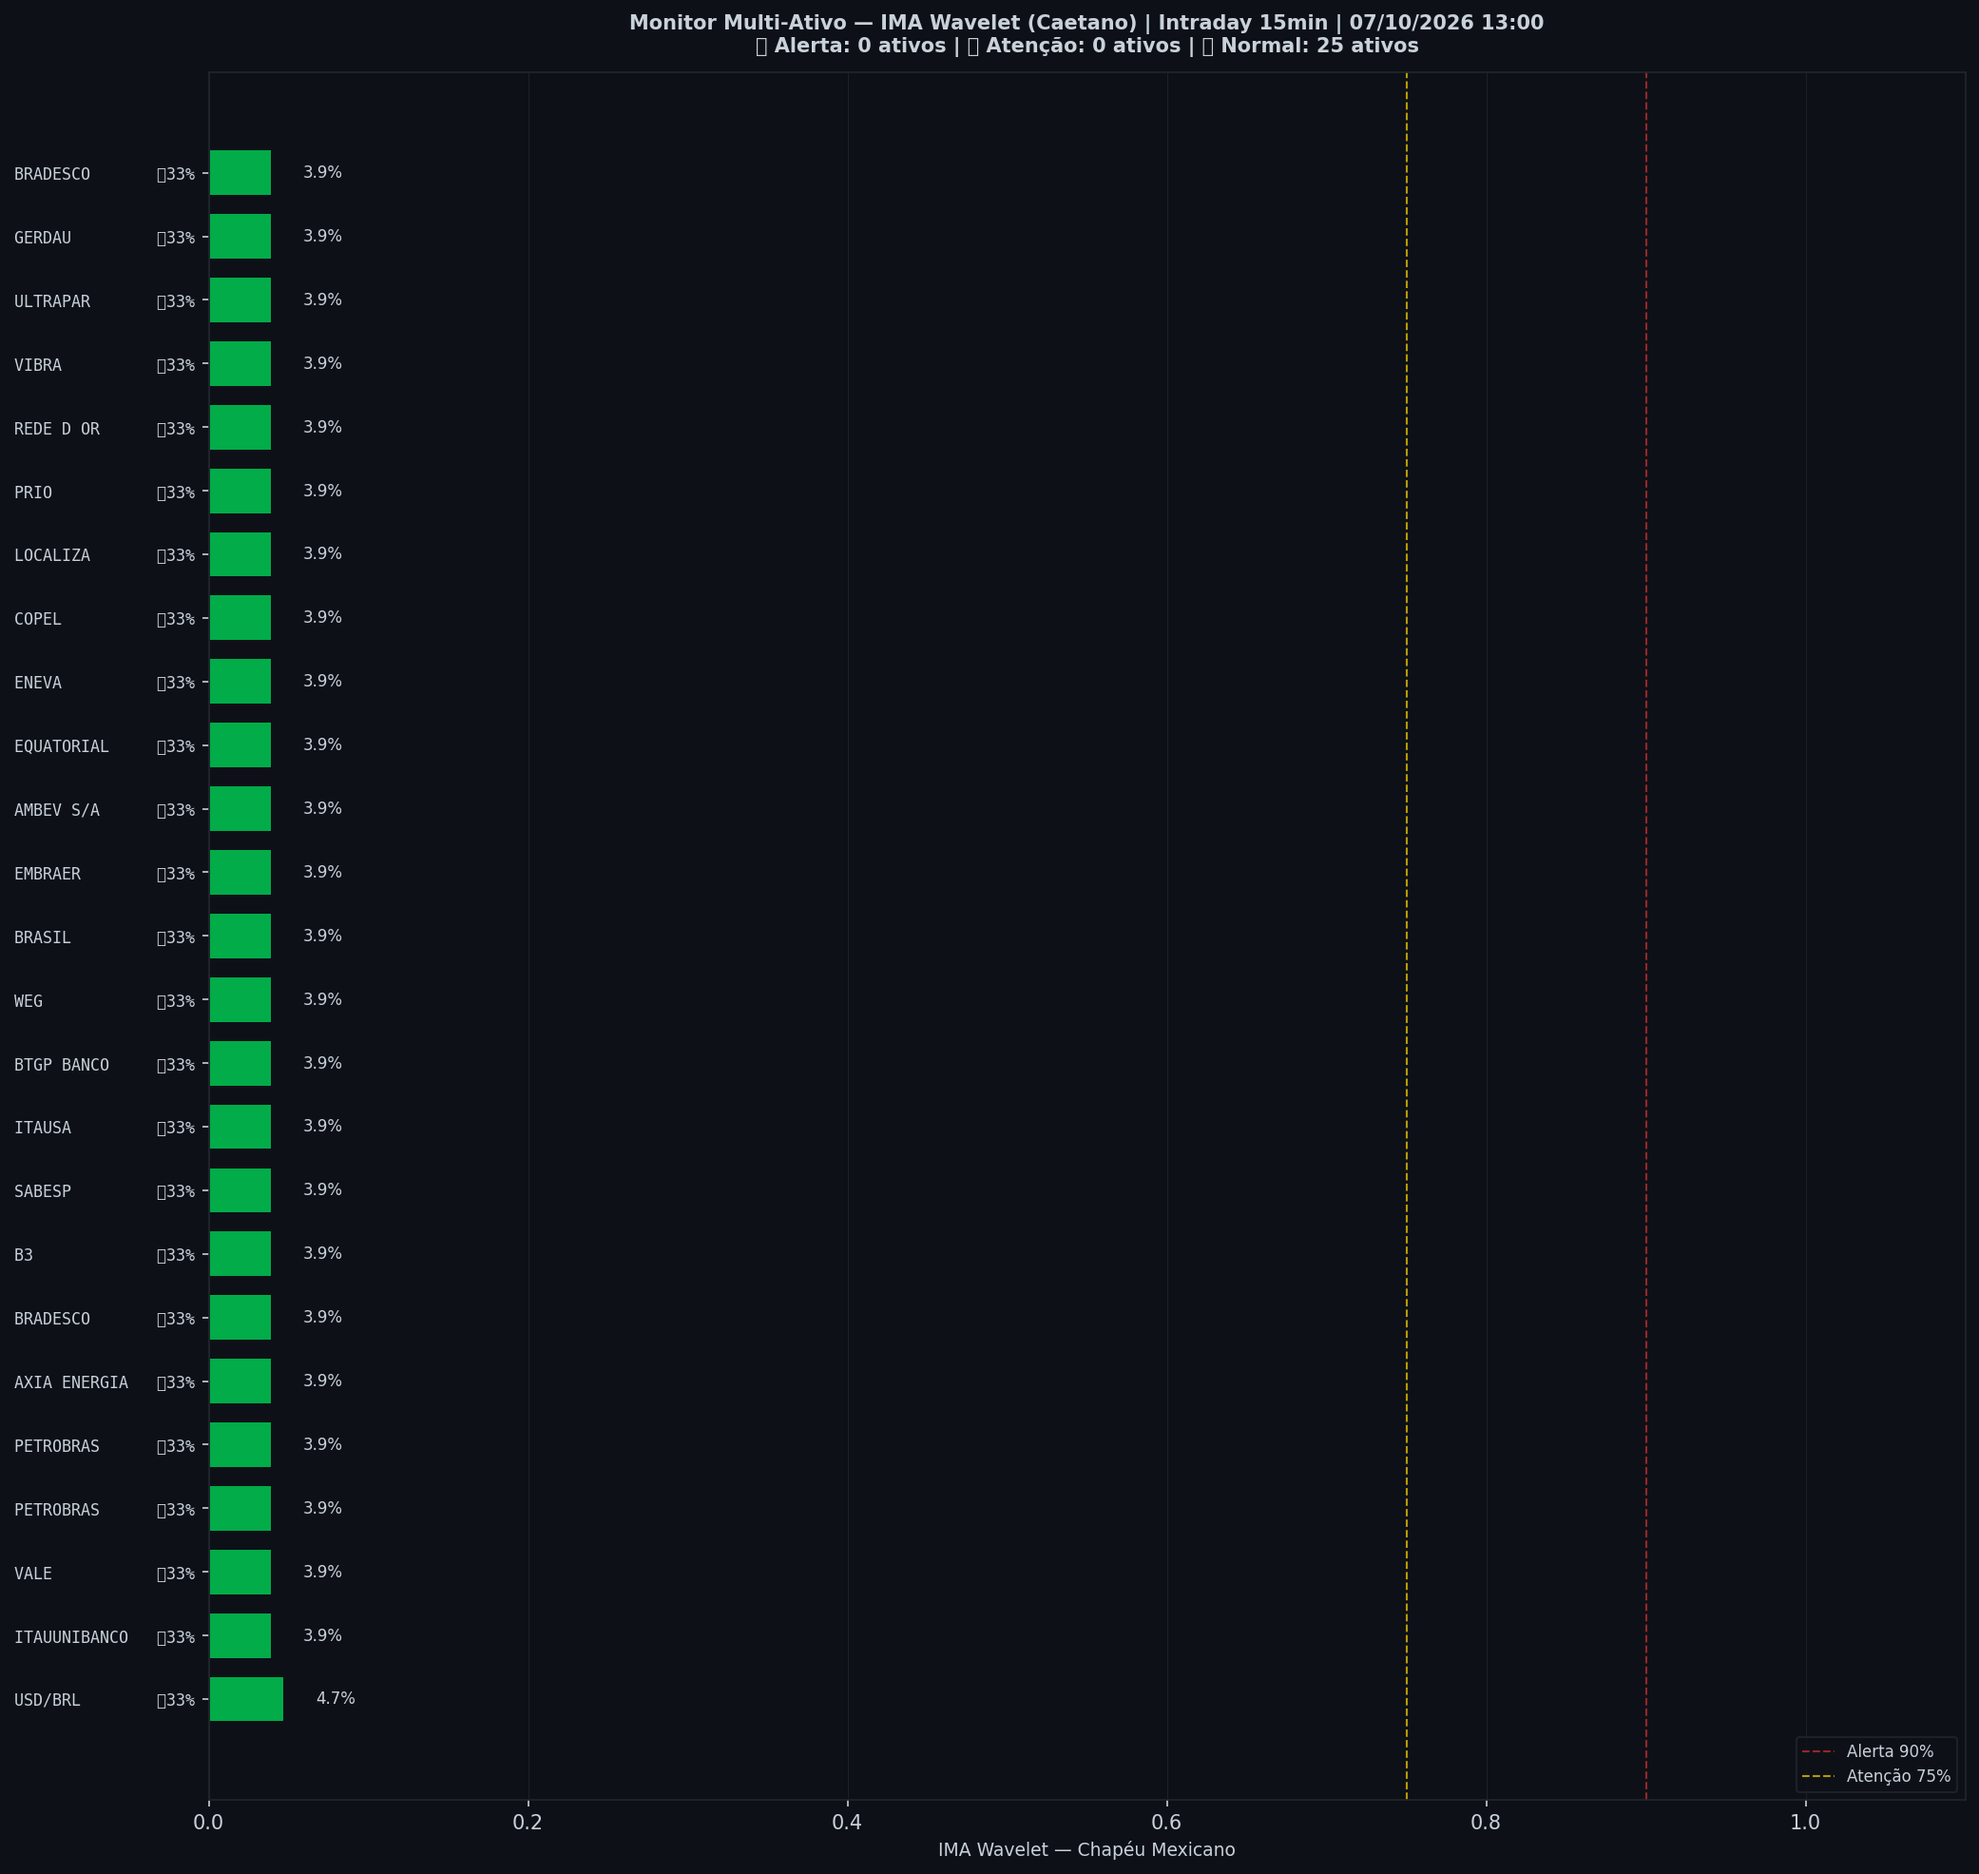
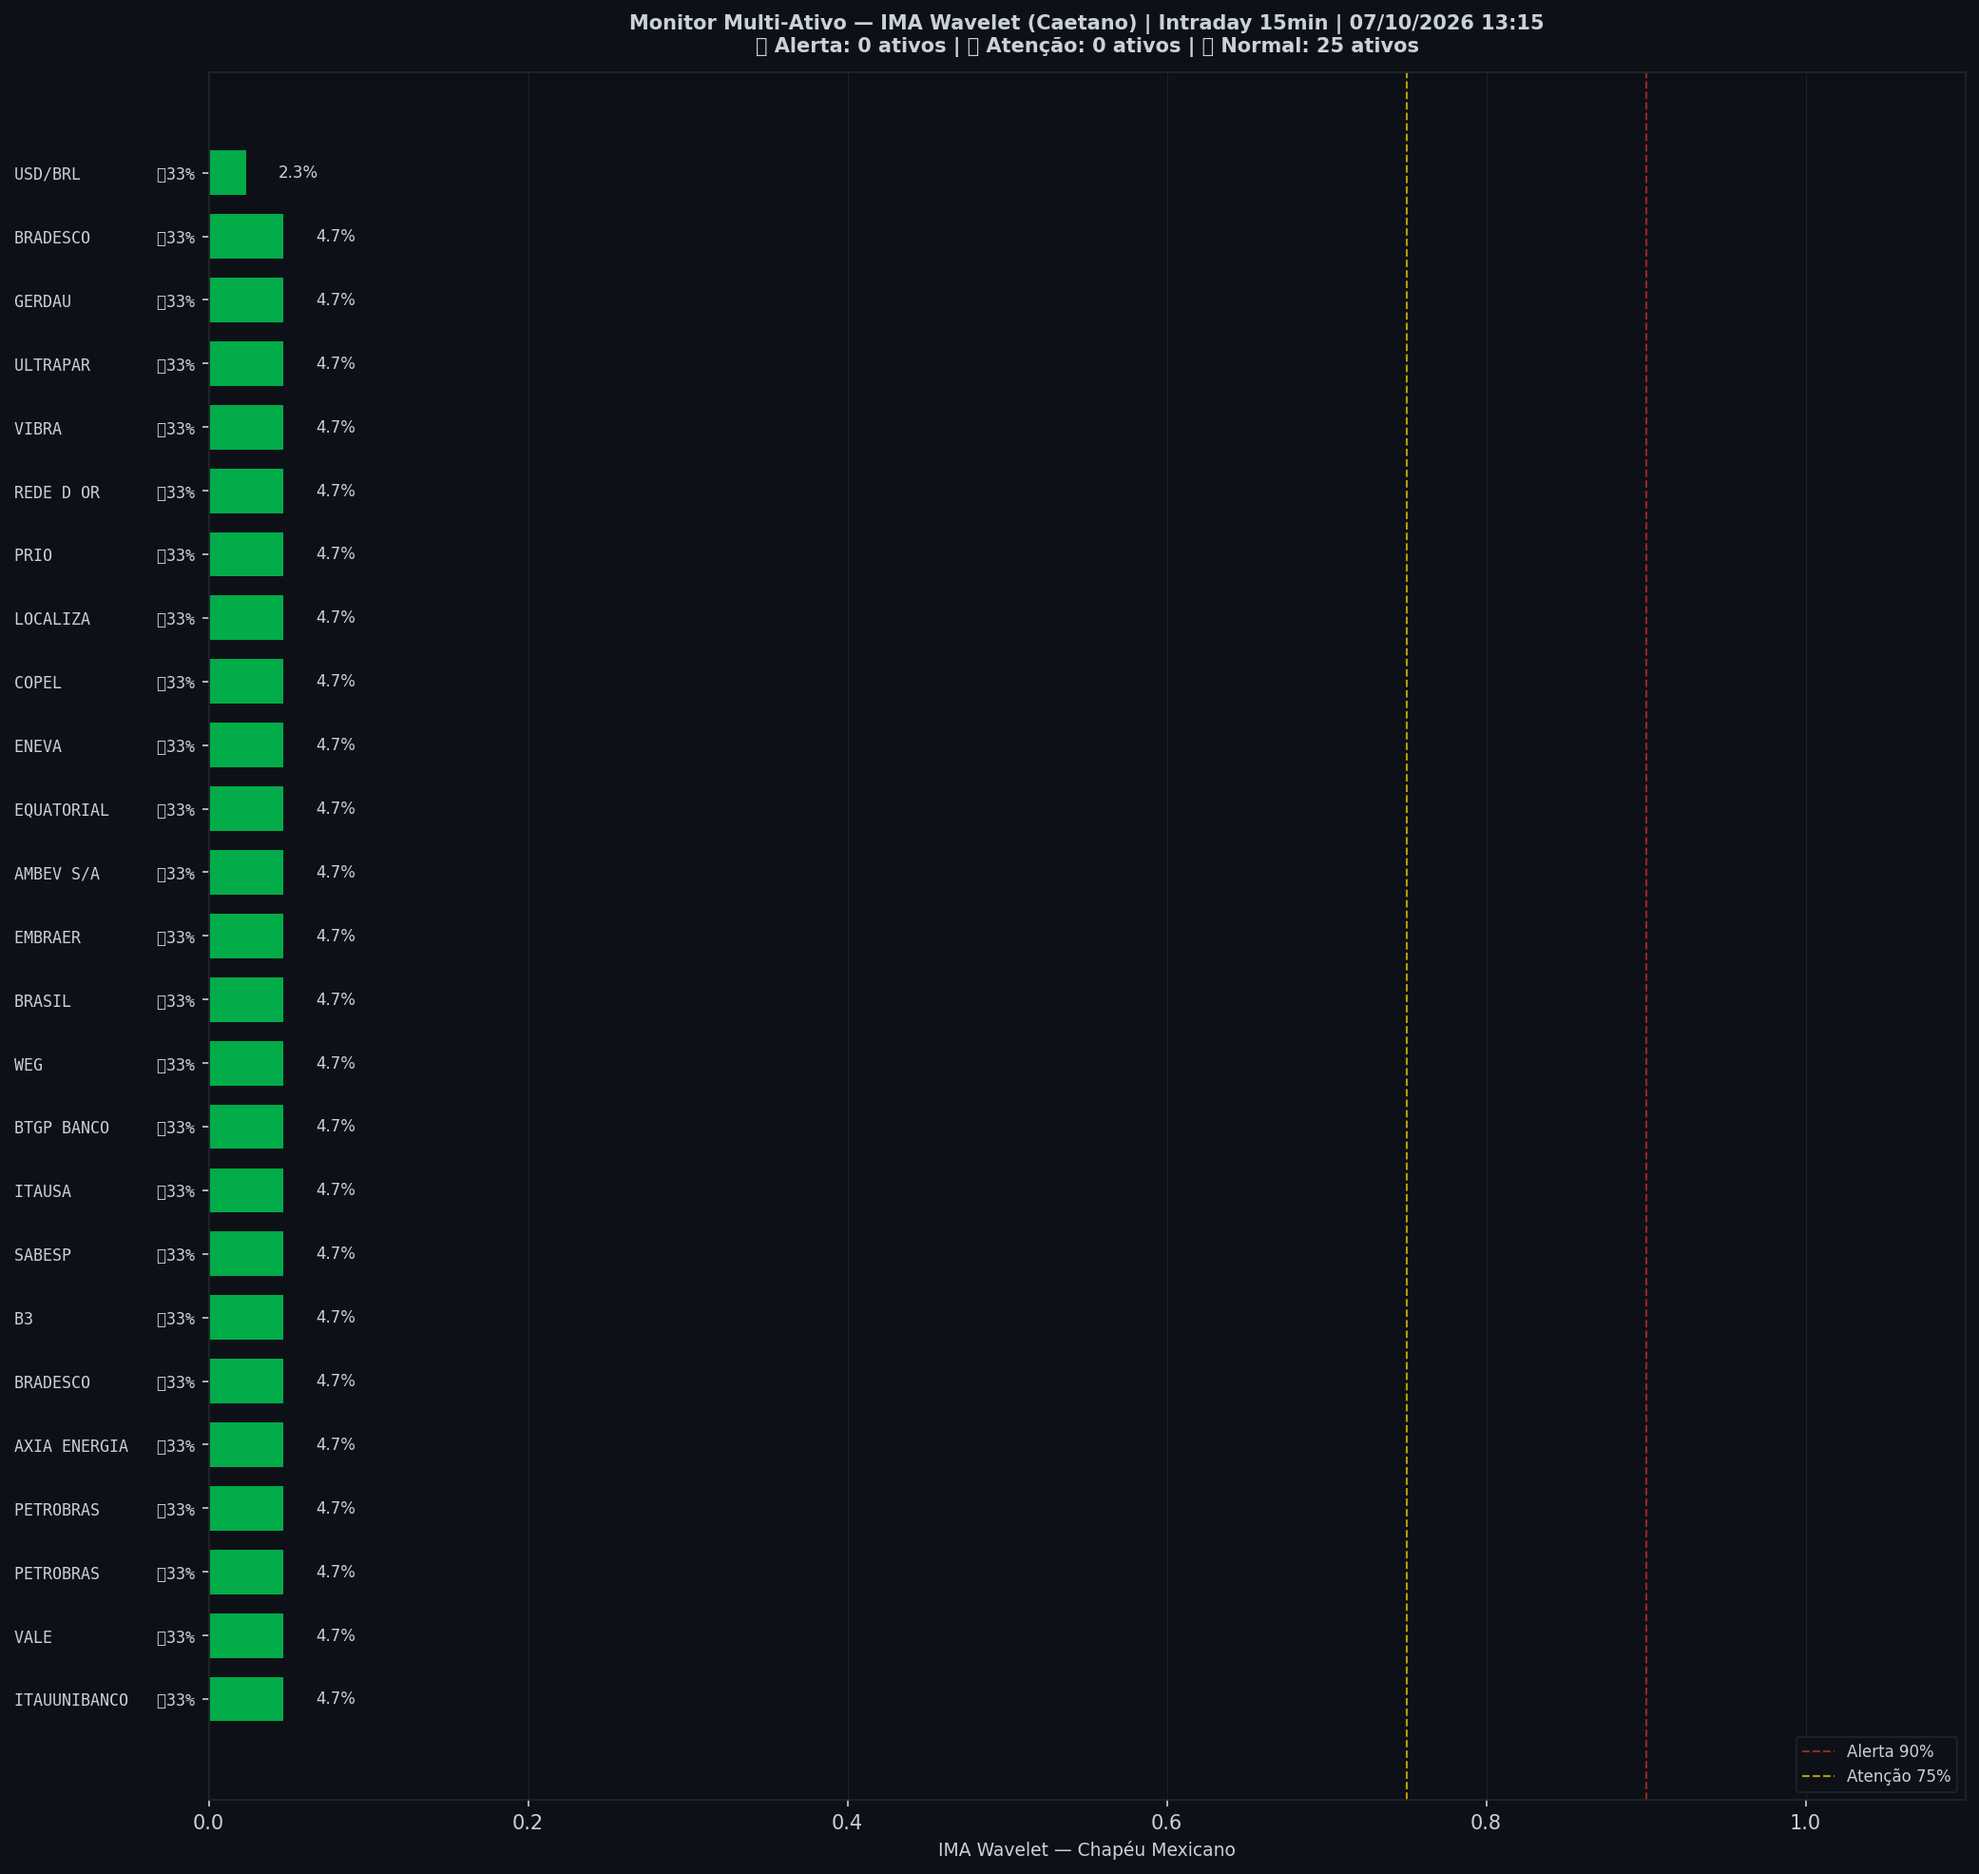
🤖 Auto: Sinal 07/10/2026 13:15

Changed region(s): [[0.1249, 0.0619, 0.1561, 0.8975], [0.0312, 0.8666, 0.0624, 0.9285], [0.0, 0.7118, 0.0624, 0.7428]]

diff --git a/content/intraday/2026-10-07.md b/content/intraday/2026-10-07.md
@@ -1,5 +1,5 @@
 ---
-title: "🟢 Intraday 07/10/2026 12:15 BRT — VERDE"
+title: "🟢 Intraday 07/10/2026 12:30 BRT — VERDE"
 date: 2026-10-07
 tags: [intraday]
 ---
@@ -12,9 +12,9 @@ tags: [intraday]
 | Indicador | Valor |
 |---|---|
 | 🔴 ζ Crash — severidade da queda em curso | **0%** |
-| 🔵 ζ Entrada — estrutura de fundo | 99% |
+| 🔵 ζ Entrada — estrutura de fundo | 98% |
 | 🫧 LPPL DS-Confidence | 0% |
-| 📊 Ibovespa | 204.373 pts |
+| 📊 Ibovespa | 204.812 pts |
 
 ![Gráfico do sinal](../graficos/sinal_intraday.png)
 
@@ -22,6 +22,7 @@ tags: [intraday]
 
 | Data | Zona | Risco | IMA Crash | Entrada | LPPL |
 |---|---|---|---|---|---|
+| 2026-10-07 12:30 | 🟢 VERDE | **0%** | 0% | 98% | 0% |
 | 2026-10-07 12:15 | 🟢 VERDE | **0%** | 0% | 99% | 0% |
 | 2026-10-07 12:00 | 🟢 VERDE | **0%** | 0% | 99% | 0% |
 | 2026-10-07 11:45 | 🟢 VERDE | **0%** | 0% | 98% | 0% |
@@ -51,7 +52,6 @@ tags: [intraday]
 | 2026-10-06 12:45 | 🟢 VERDE | **30%** | 30% | 40% | 0% |
 | 2026-10-06 12:30 | 🟢 VERDE | **34%** | 34% | 39% | 0% |
 | 2026-10-06 12:15 | 🟢 VERDE | **39%** | 39% | 38% | 0% |
-| 2026-10-06 12:00 | 🟢 VERDE | **44%** | 44% | 38% | 0% |
 
 ## Monitor Multi-Ativo
 
@@ -59,35 +59,35 @@ tags: [intraday]
 
 | Zona | Ativo | Setor | IMA Crash | IMA Entrada |
 |---|---|---|---|---|
-| 🟢 | **USD/BRL** | Câmbio | 4.7% | 32.8% |
-| 🟢 | **ITAUUNIBANCO** | Financeiro | 3.9% | 32.8% |
-| 🟢 | **VALE** | Mineração | 3.9% | 32.8% |
-| 🟢 | **PETROBRAS** | Petróleo | 3.9% | 32.8% |
-| 🟢 | **PETROBRAS** | Petróleo | 3.9% | 32.8% |
-| 🟢 | **AXIA ENERGIA** | Energia | 3.9% | 32.8% |
-| 🟢 | **BRADESCO** | Financeiro | 3.9% | 32.8% |
-| 🟢 | **B3** | Financeiro | 3.9% | 32.8% |
-| 🟢 | **SABESP** | Saneamento | 3.9% | 32.8% |
-| 🟢 | **ITAUSA** | Financeiro | 3.9% | 32.8% |
-| 🟢 | **BTGP BANCO** | Financeiro | 3.9% | 32.8% |
-| 🟢 | **WEG** | Industrial | 3.9% | 32.8% |
-| 🟢 | **BRASIL** | Financeiro | 3.9% | 32.8% |
-| 🟢 | **EMBRAER** | Outros | 3.9% | 32.8% |
-| 🟢 | **AMBEV S/A** | Consumo | 3.9% | 32.8% |
-| 🟢 | **EQUATORIAL** | Energia | 3.9% | 32.8% |
-| 🟢 | **ENEVA** | Energia | 3.9% | 32.8% |
-| 🟢 | **COPEL** | Energia | 3.9% | 32.8% |
-| 🟢 | **LOCALIZA** | Aluguel | 3.9% | 32.8% |
-| 🟢 | **PRIO** | Petróleo | 3.9% | 32.8% |
-| 🟢 | **REDE D OR** | Saúde | 3.9% | 32.8% |
-| 🟢 | **VIBRA** | Energia | 3.9% | 32.8% |
-| 🟢 | **ULTRAPAR** | Outros | 3.9% | 32.8% |
-| 🟢 | **GERDAU** | Siderurgia | 3.9% | 32.8% |
-| 🟢 | **BRADESCO** | Outros | 3.9% | 32.8% |
+| 🟢 | **ITAUUNIBANCO** | Financeiro | 4.7% | 32.8% |
+| 🟢 | **VALE** | Mineração | 4.7% | 32.8% |
+| 🟢 | **PETROBRAS** | Petróleo | 4.7% | 32.8% |
+| 🟢 | **PETROBRAS** | Petróleo | 4.7% | 32.8% |
+| 🟢 | **AXIA ENERGIA** | Energia | 4.7% | 32.8% |
+| 🟢 | **BRADESCO** | Financeiro | 4.7% | 32.8% |
+| 🟢 | **B3** | Financeiro | 4.7% | 32.8% |
+| 🟢 | **SABESP** | Saneamento | 4.7% | 32.8% |
+| 🟢 | **ITAUSA** | Financeiro | 4.7% | 32.8% |
+| 🟢 | **BTGP BANCO** | Financeiro | 4.7% | 32.8% |
+| 🟢 | **WEG** | Industrial | 4.7% | 32.8% |
+| 🟢 | **BRASIL** | Financeiro | 4.7% | 32.8% |
+| 🟢 | **EMBRAER** | Outros | 4.7% | 32.8% |
+| 🟢 | **AMBEV S/A** | Consumo | 4.7% | 32.8% |
+| 🟢 | **EQUATORIAL** | Energia | 4.7% | 32.8% |
+| 🟢 | **ENEVA** | Energia | 4.7% | 32.8% |
+| 🟢 | **COPEL** | Energia | 4.7% | 32.8% |
+| 🟢 | **LOCALIZA** | Aluguel | 4.7% | 32.8% |
+| 🟢 | **PRIO** | Petróleo | 4.7% | 32.8% |
+| 🟢 | **REDE D OR** | Saúde | 4.7% | 32.8% |
+| 🟢 | **VIBRA** | Energia | 4.7% | 32.8% |
+| 🟢 | **ULTRAPAR** | Outros | 4.7% | 32.8% |
+| 🟢 | **GERDAU** | Siderurgia | 4.7% | 32.8% |
+| 🟢 | **BRADESCO** | Outros | 4.7% | 32.8% |
+| 🟢 | **USD/BRL** | Câmbio | 2.3% | 32.8% |
 
 ![Monitor multi-ativo](../graficos/multi_intraday.png)
 
-*Página atualizada em 07/10/2026 13:00 BRT (leitura da barra de 2026-10-07 12:15 BRT).*
+*Página atualizada em 07/10/2026 13:15 BRT (leitura da barra de 2026-10-07 12:30 BRT).*
 
 > [!info]- Como interpretar (clique para expandir)
 > - **ζ Crash**: fração dos coeficientes wavelet acima do corte (Caetano & Yoneyama 2009). Escala absoluta: ζ=0,90 = 90% dos coeficientes anômalos — historicamente, quedas com ζ≥0,90 foram mais fundas e mais longas. **Mede a severidade do movimento em curso, não prevê o início da queda.**

diff --git a/content/index.md b/content/index.md
@@ -8,7 +8,7 @@ tags: [home]
 
 Monitoramento diário e intraday do Ibovespa — **IMA Wavelet** (Prof. Marco Antonio Leonel Caetano, ITA/INSPER) + **LPPL DS-Confidence** (Prof. Didier Sornette, ETH-Zurich).
 
-*Última atualização: 07/10/2026 13:00 BRT · ^BVSP · Intraday 15min · v4*
+*Última atualização: 07/10/2026 13:15 BRT · ^BVSP · Intraday 15min · v4*
 
 > [!success] 🟢 **VERDE** — Risco 0% · ＝ +0 p.p. vs leitura anterior
 > `░░░░░░░░░░░░░░░░░░░░`
@@ -18,9 +18,9 @@ Monitoramento diário e intraday do Ibovespa — **IMA Wavelet** (Prof. Marco An
 | Indicador | Valor |
 |---|---|
 | 🔴 ζ Crash — severidade da queda em curso | **0%** |
-| 🔵 ζ Entrada — estrutura de fundo | 99% |
+| 🔵 ζ Entrada — estrutura de fundo | 98% |
 | 🫧 LPPL DS-Confidence | 0% |
-| 📊 Ibovespa | 204.373 pts |
+| 📊 Ibovespa | 204.812 pts |
 
 **Multi-ativo:** 0% em tensão (0🔴 0🟡 de 25 ativos)
 

diff --git a/content/historico.md b/content/historico.md
@@ -7,6 +7,7 @@ tags: [historico]
 
 | Data | Modo | Zona | Risco | IMA | LPPL |
 |---|---|---|---|---|---|
+| 2026-10-07 12:30 | intraday | 🟢 VERDE | 0% | 0% | 0% |
 | 2026-10-07 12:15 | intraday | 🟢 VERDE | 0% | 0% | 0% |
 | 2026-10-07 12:00 | intraday | 🟢 VERDE | 0% | 0% | 0% |
 | 2026-10-07 11:45 | intraday | 🟢 VERDE | 0% | 0% | 0% |
